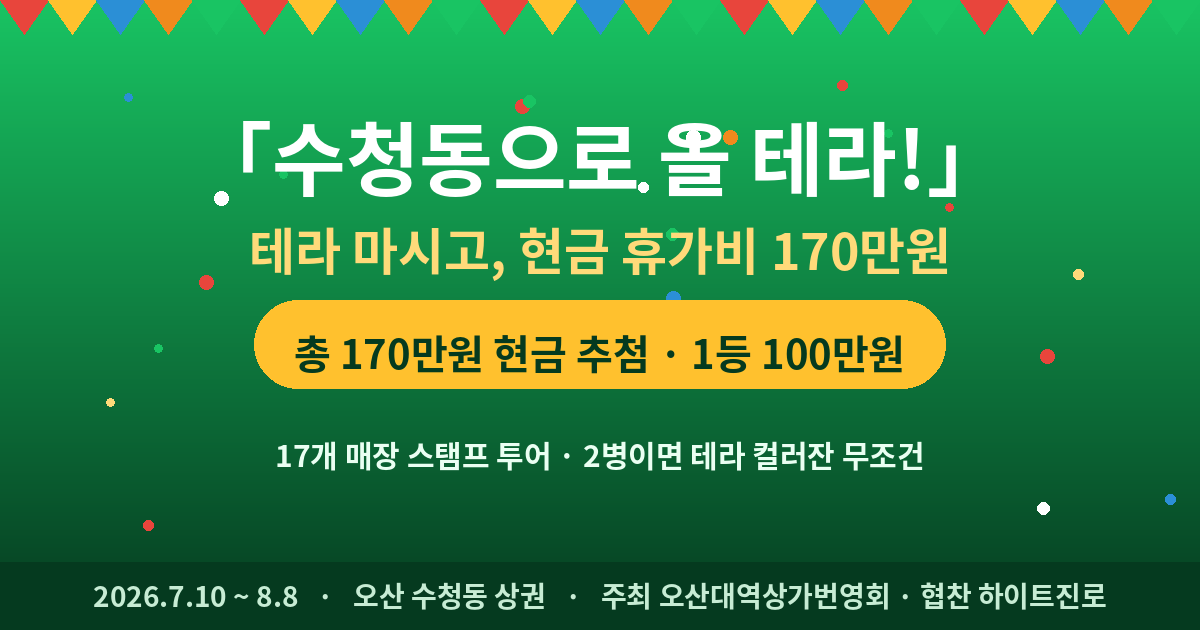
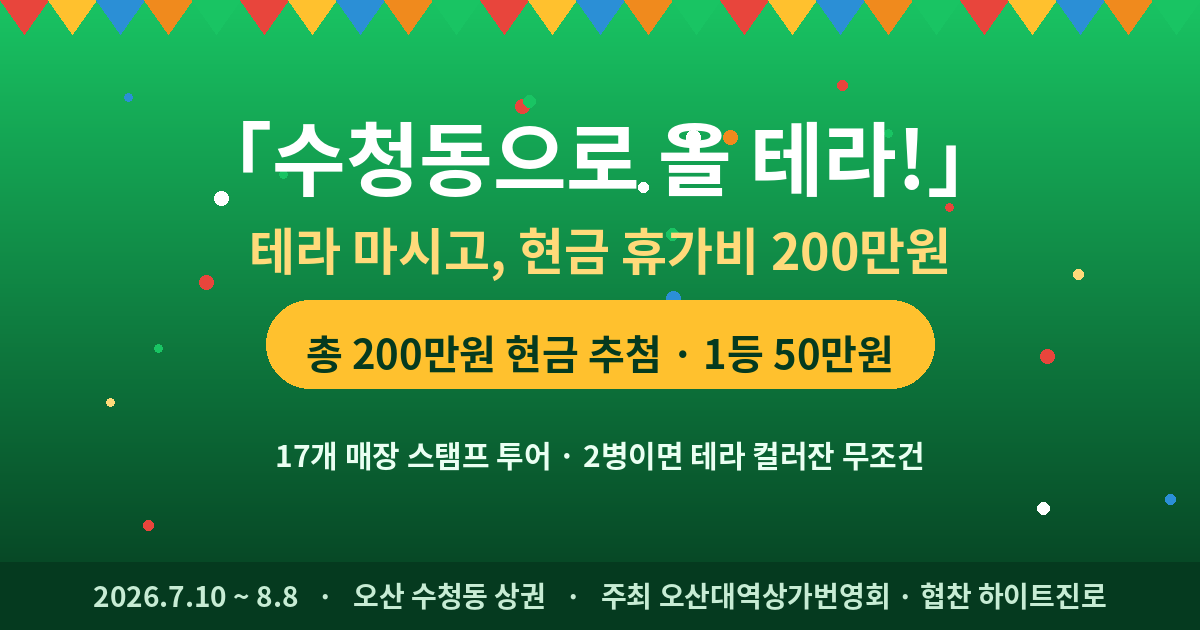
Add files via upload

Changed region(s): [[0.185, 0.4825, 0.8017, 0.6333], [0.6475, 0.3619, 0.7092, 0.4222]]

diff --git a/index.html b/index.html
@@ -3,21 +3,21 @@
 <head>
 <meta charset="UTF-8">
 <meta name="viewport" content="width=device-width, initial-scale=1.0">
-<title>수청동으로 올 테라! — 테라 마시고 현금 휴가비 170만원</title>
-<meta name="description" content="테라 마시고 현금 휴가비 170만원 추첨! 17개 매장 스탬프 투어, 2병이면 테라 컬러잔 무조건 증정. 「수청동으로 올 테라!」 2026.7.10~8.8 오산 수청동.">
+<title>수청동으로 올 테라! — 테라 마시고 현금 휴가비 200만원</title>
+<meta name="description" content="테라 마시고 현금 휴가비 200만원 추첨! 17개 매장 스탬프 투어, 2병이면 테라 컬러잔 무조건 증정. 「수청동으로 올 테라!」 2026.7.10~8.8 오산 수청동.">
 
 <!-- 카톡/SNS 미리보기(Open Graph) -->
 <meta property="og:type" content="website">
-<meta property="og:title" content="수청동으로 올 테라! — 현금 휴가비 170만원">
-<meta property="og:description" content="테라 마시고 현금 휴가비 170만원 추첨 + 17개 매장 스탬프 투어. 2026.7.10~8.8 오산 수청동.">
+<meta property="og:title" content="수청동으로 올 테라! — 현금 휴가비 200만원">
+<meta property="og:description" content="테라 마시고 현금 휴가비 200만원 추첨 + 17개 매장 스탬프 투어. 2026.7.10~8.8 오산 수청동.">
 <meta property="og:image" content="https://suchungdong-tera.vercel.app/og.png">
 <meta property="og:image:width" content="1200">
 <meta property="og:image:height" content="630">
 <meta property="og:url" content="https://suchungdong-tera.vercel.app/">
 <meta property="og:locale" content="ko_KR">
 <meta name="twitter:card" content="summary_large_image">
-<meta name="twitter:title" content="수청동으로 올 테라! — 현금 휴가비 170만원">
-<meta name="twitter:description" content="테라 마시고 현금 휴가비 170만원 추첨 + 17개 매장 스탬프 투어. 2026.7.10~8.8.">
+<meta name="twitter:title" content="수청동으로 올 테라! — 현금 휴가비 200만원">
+<meta name="twitter:description" content="테라 마시고 현금 휴가비 200만원 추첨 + 17개 매장 스탬프 투어. 2026.7.10~8.8.">
 <meta name="twitter:image" content="https://suchungdong-tera.vercel.app/og.png">
 
 <link rel="preconnect" href="https://cdn.jsdelivr.net">
@@ -198,6 +198,9 @@
   .store .scat{font-size:11px;color:var(--muted);margin:2px 0 10px;line-height:1.4}
   .store a.place{margin-top:auto;display:inline-flex;align-items:center;gap:5px;background:#03c75a;color:#fff;text-decoration:none;font-weight:700;font-size:11.5px;padding:7px 10px;border-radius:8px;width:100%;justify-content:center}
   .store a.place .nv{font-weight:900;background:#fff;color:#03c75a;border-radius:3px;width:14px;height:14px;display:inline-flex;align-items:center;justify-content:center;font-size:10.5px}
+  .store.brand{padding:0;overflow:hidden;justify-content:flex-start;border-color:var(--terra)}
+  .store.brand img{width:100%;aspect-ratio:1/1;object-fit:contain;display:block;background:#fff}
+  .store.brand .bcap{font-size:11.5px;font-weight:800;color:var(--terra-dark);padding:8px 6px;text-align:center;width:100%;background:var(--terra-tint)}
 
   .cond{font-size:12.5px;color:var(--muted);text-align:center;margin-top:20px;line-height:1.75;background:#fff;border:1px solid var(--line);border-radius:12px;padding:14px 16px}
   .cond b{color:var(--terra-dark)}
@@ -292,7 +295,7 @@
       <span class="label">🧳 휴가비를 쏠 테라!</span>
       <div class="big">현금 휴가비 <b><span id="prizeNum">0</span>만원</b></div>
       <div class="plus">테라 1병 주문 = 응모권 1장</div>
-      <div class="note">1등 현금 100만원 · 켈리·테라라이트도 가능 · 2026.7.10~8.8</div>
+      <div class="note">1등 현금 50만원 · 켈리·테라라이트도 가능 · 2026.7.10~8.8</div>
     </div>
 
     <div class="hero-cta">
@@ -343,7 +346,7 @@
           </svg>
           <span class="snum">2</span>
         </div>
-        <div><h3>1병당 응모권 1장</h3><p>테라 1병 주문마다 응모권을 1장씩. 총 170만원 현금 휴가비 추첨에 자동 응모돼요.</p></div>
+        <div><h3>1병당 응모권 1장</h3><p>테라 1병 주문마다 응모권을 1장씩. 총 200만원 현금 휴가비 추첨에 자동 응모돼요.</p></div>
       </div>
       <div class="step reveal">
         <div class="sicon">
@@ -385,25 +388,25 @@
       <div class="ben main reveal">
         <span class="tagline">메인 경품 · 현금</span>
         <h3><span class="ic">🧳</span>휴가비를 쏠 테라!</h3>
-        <p>테라 주문 고객 추첨 이벤트. 총 <b>170만원의 휴가비를 현금</b>으로 쏩니다. 테라(켈리·테라라이트 가능) 1병 주문마다 응모권을 1장씩 작성할 수 있어요.</p>
+        <p>테라 주문 고객 추첨 이벤트. 총 <b>200만원의 휴가비를 현금</b>으로 쏩니다. 테라(켈리·테라라이트 가능) 1병 주문마다 응모권을 1장씩 작성할 수 있어요.</p>
         <ul class="tiers">
-          <li class="g1"><span class="rk">1등</span><span class="pz">현금 100만원</span><span class="ct">1명</span></li>
-          <li><span class="rk">2등</span><span class="pz">현금 20만원</span><span class="ct">2명</span></li>
-          <li><span class="rk">3등</span><span class="pz">현금 5만원</span><span class="ct">6명</span></li>
+          <li class="g1"><span class="rk">1등</span><span class="pz">현금 50만원</span><span class="ct">1명</span></li>
+          <li><span class="rk">2등</span><span class="pz">현금 30만원</span><span class="ct">3명</span></li>
+          <li><span class="rk">3등</span><span class="pz">현금 10만원</span><span class="ct">6명</span></li>
           <li><span class="rk">4등</span><span class="pz">테라 쏘맥타워</span><span class="ct">20명</span></li>
           <li><span class="rk">5등</span><span class="pz">테라 굿즈세트</span><span class="ct">20명</span></li>
         </ul>
         <div class="pthumbs c3">
           <div class="pthumb">
             <div class="m"><img src="5만원권.jpg" alt="현금 5만원권 휴가비" loading="lazy"></div>
-            <div class="cap">현금 100·20·5만원</div>
+            <div class="cap">현금 50·30·10만원</div>
           </div>
           <div class="pthumb">
             <div class="m"><img src="쏘맥타워.jpg" alt="테라 쏘맥타워" loading="lazy"></div>
             <div class="cap">테라 쏘맥타워</div>
           </div>
           <div class="pthumb">
-            <div class="m"><div class="imgph"><span class="cam">📷</span><span class="pl">굿즈세트<small>사진 예정</small></span></div></div>
+            <div class="m"><img src="테라굿즈세트.jpg" alt="테라 굿즈세트" loading="lazy"></div>
             <div class="cap">테라 굿즈세트</div>
           </div>
         </div>
@@ -412,7 +415,7 @@
         <span class="tagline">무조건 증정</span>
         <h3><span class="ic">🍺</span>무조건 선물 드릴 테라!</h3>
         <p>테라(켈리·테라라이트 교차 가능) <b>2병 음용 시 테라 컬러잔 1개</b>를 그 자리에서 드립니다. 추첨 아니고, 무조건.</p>
-        <div class="benph"><div class="imgph"><span class="cam">📷</span><span class="pl">테라 컬러잔<small>사진 예정 · 2병 음용 시 무조건 증정</small></span></div></div>
+        <div class="benph"><img src="테라컬러잔.jpg" alt="테라 컬러잔"></div>
       </div>
       <div class="ben reveal">
         <span class="tagline">스탬프 투어</span>
@@ -424,7 +427,7 @@
             <div class="cap">테라 쏘맥타워</div>
           </div>
           <div class="pthumb">
-            <div class="m"><div class="imgph"><span class="cam">📷</span><span class="pl">굿즈세트<small>사진 예정</small></span></div></div>
+            <div class="m"><img src="테라굿즈세트.jpg" alt="테라 굿즈세트" loading="lazy"></div>
             <div class="cap">테라 굿즈세트</div>
           </div>
         </div>
@@ -445,7 +448,7 @@
       <span class="tag">수청동 정복할 테라!</span>
       <h2>클럽데이는 클럽을 돌지만,<br><em>수청동은 가게를 돕니다</em></h2>
       <p class="t-desc">한 집에서 끝내기엔 좀 아쉽잖아요. 스탬프판 한 장 들고 17개 매장을 건너다니며 테라 한 잔씩. 10칸을 채우면 진짜 선물이 기다립니다.</p>
-      <div class="reward"><b>★ 17곳 중 10곳 스탬프</b> · 선착순 <b>20명</b> 테라 쏘맥타워+굿즈세트 ＋ 현금 휴가비 170만원 추첨까지, 여러 가게를 돌수록 기회가 늘어납니다.</div>
+      <div class="reward"><b>★ 17곳 중 10곳 스탬프</b> · 선착순 <b>20명</b> 테라 쏘맥타워+굿즈세트 ＋ 현금 휴가비 200만원 추첨까지, 여러 가게를 돌수록 기회가 늘어납니다.</div>
     </div>
   </div>
 </section>
@@ -473,6 +476,7 @@
       <div class="store"><div class="no">15</div><div class="snm">대동집</div><div class="scat">요리주점 · 대동 미나리 해물전</div><a class="place" href="https://map.naver.com/p/entry/place/1594491604" target="_blank" rel="noopener"><span class="nv">N</span> 플레이스</a></div>
       <div class="store"><div class="no">16</div><div class="snm">동해수산</div><div class="scat">회 · 모둠회, 해산물세트, 물회</div><a class="place" href="https://map.naver.com/p/search/%EB%8F%99%ED%95%B4%EC%88%98%EC%82%B0/place/1222516478" target="_blank" rel="noopener"><span class="nv">N</span> 플레이스</a></div>
       <div class="store"><div class="no">17</div><div class="snm">안도</div><div class="scat">요리주점 · 바지락술찜파스타</div><a class="place" href="https://map.naver.com/p/entry/place/1146921009" target="_blank" rel="noopener"><span class="nv">N</span> 플레이스</a></div>
+      <div class="store brand"><img src="수청동맛거리.jpg" alt="수청동 맛거리 — 오산대역 앞 맛있는 거리, 행복한 만남"><div class="bcap">함께하는 수청동 맛거리</div></div>
     </div>
   </div>
 </section>
@@ -485,17 +489,6 @@
       ※ 주최·주관: <b>오산대역상가번영회</b> · 특별협찬: <b>하이트진로</b><br>
       ※ 경품·굿즈 수량은 한정되어 있으며, 추첨 결과 및 행사 운영은 주최 측 사정에 따라 변경될 수 있습니다.
     </p>
-  </div>
-</section>
-
-<section class="section" style="padding-top:0">
-  <div class="wrap">
-    <div class="owner reveal">
-      <h3>📞 문의</h3>
-      <p>행사 참여·진행이 궁금하시면 편하게 연락주세요.</p>
-      <a class="ph" href="tel:[phone redacted]"><small>육삼식당 대표 박태홍</small>[phone redacted]</a>
-      <a class="ph" href="tel:[phone redacted]"><small>하이트진로 황현우 사원</small>[phone redacted]</a>
-    </div>
   </div>
 </section>
 
@@ -544,14 +537,14 @@
     deco.appendChild(frag);
   })();
 
-  // 2) 숫자 카운트업 (170만원)
+  // 2) 숫자 카운트업 (200만원)
   (function(){
     var el=document.getElementById('prizeNum');
     if(!el) return;
     var done=false;
     function run(){
       if(done) return; done=true;
-      var target=170, t0=null, dur=1300;
+      var target=200, t0=null, dur=1300;
       function step(ts){
         if(!t0) t0=ts;
         var p=Math.min((ts-t0)/dur,1);